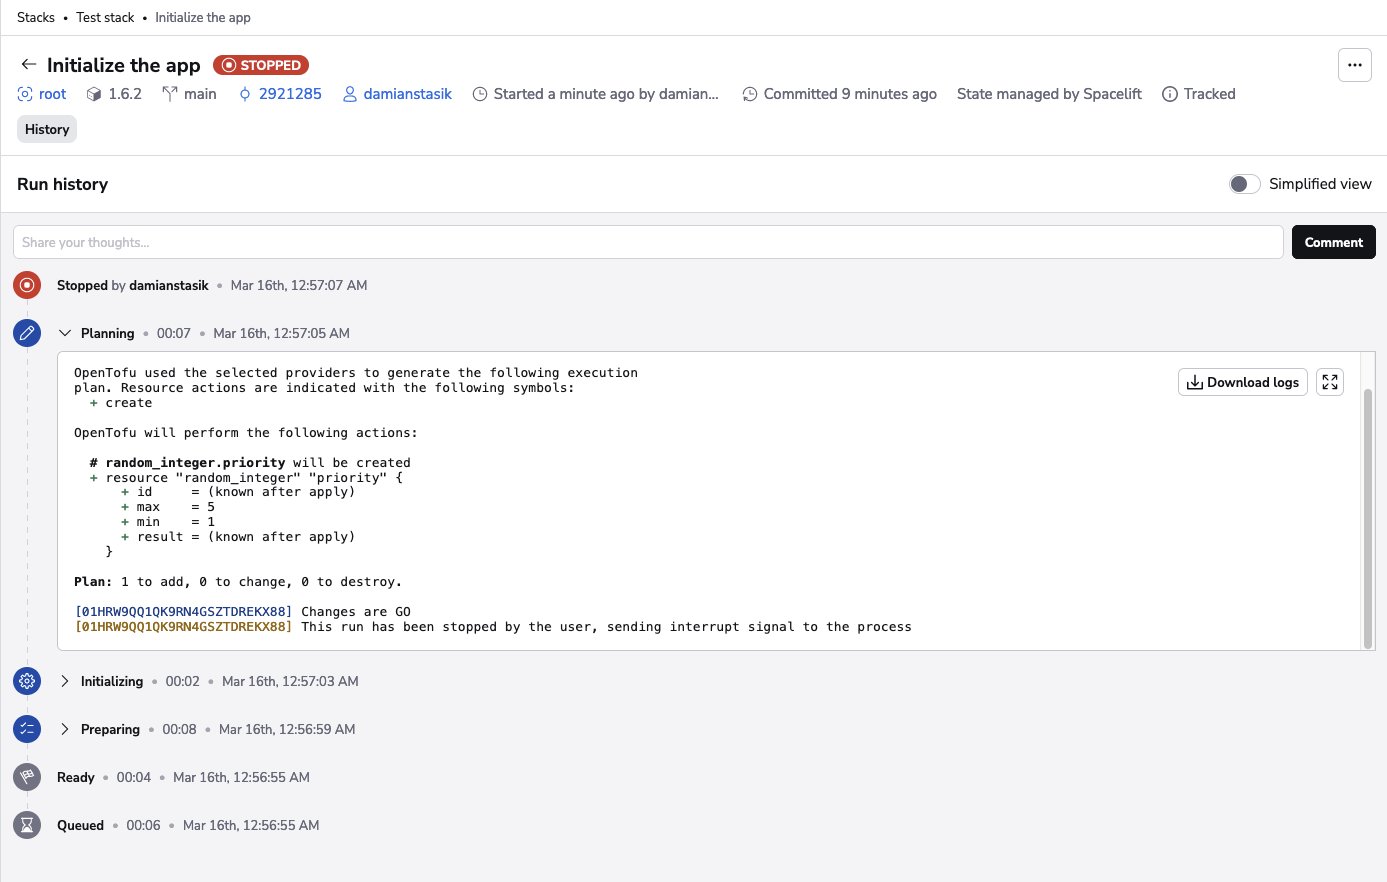
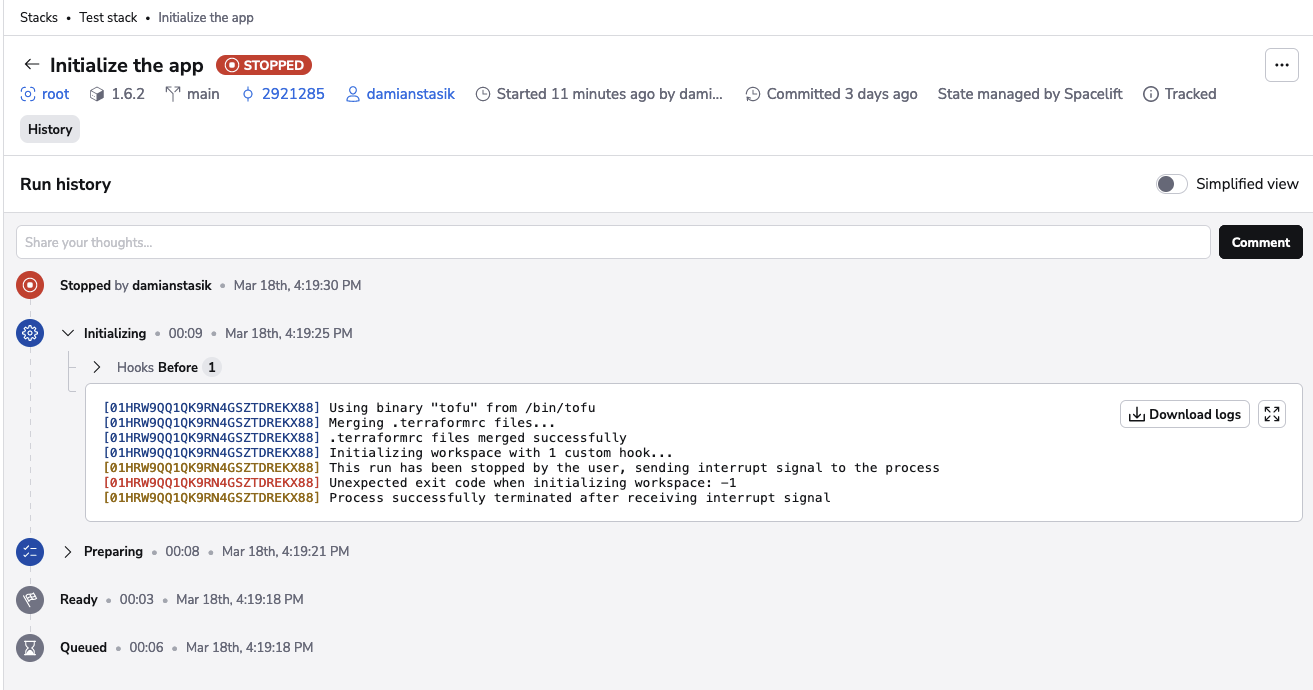
Show stopping while init

Changed region(s): [[0.0, 0.0, 0.9992, 0.9739], [0.8743, 0.1826, 0.9992, 0.3957], [0.968, 0.0913, 0.9992, 0.1217]]

diff --git a/docs/concepts/run/README.md b/docs/concepts/run/README.md
@@ -102,7 +102,7 @@ Some types of runs in some phases may safely be interrupted. We allow sending a 
 
 Stopped state indicates that a run has been stopped while [Initializing](#initializing) or [Planning](./proposed.md#planning), either manually by the user or - for proposed changes - also by Spacelift. Proposed changes will automatically be stopped when a newer version of the code is pushed to their branch. This is mainly designed to limit the number of unnecessary API calls to your resource providers, though it saves us a few bucks on EC2, too.
 
-Here's an example of a run manually stopped while [Planning](#planning):
+Here's an example of a run manually stopped while [Initializing](#initializing):
 
 ![](../../assets/screenshots/run/stopped-run.png)
 
